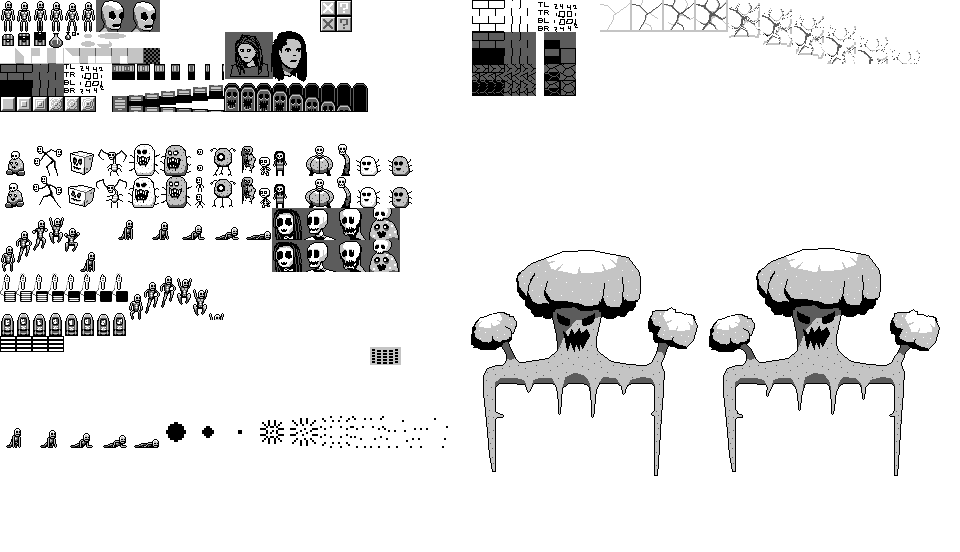
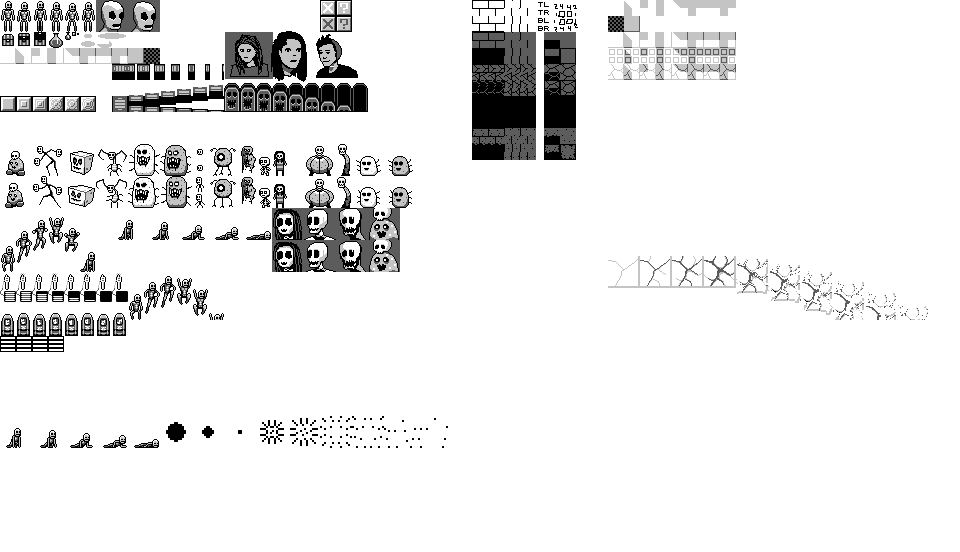
added alternate art for floor/wall tiles

diff --git a/src/game/spriteref.py b/src/game/spriteref.py
@@ -252,6 +252,23 @@ def split_text(text, add_to=None):
        6    5    4
 """
 walls = [None] * 256
+walls_black = [None] * 256
+walls_cracked = [None] * 256
+
+WALL_NORMAL_ID = 0
+WALL_BLACK_ID = 1
+WALL_CRACKED_ID = 2
+
+_wall_lookup = [walls, walls_black, walls_cracked]
+_root_pos = (472, 32)
+_wall_types = [(walls, [_root_pos[0], _root_pos[1], 64, 32]),
+               (walls_cracked, [_root_pos[0], _root_pos[1] + 32, 64, 32]),
+               (walls_black, [_root_pos[0], _root_pos[1] + 64, 64, 32])]
+
+
+def get_wall(encoding, wall_type_id=WALL_NORMAL_ID):
+    return _wall_lookup[wall_type_id][encoding]
+
 
 """Lookup table for floor sprites:
     * -- * -- *
@@ -260,13 +277,23 @@ walls = [None] * 256
     |  1 |  x |
     * -- * -- * 
 """
-floors = [make(i*16, 48, 16, 16) for i in range(0, 8)]
-floor_totally_dark = make(128, 48, 16, 16)
-floor_hidden = make(144, 48, 16, 16)
+floor_hidden = make(608, 16, 16, 16)
+floor_totally_dark = make(624, 16, 16, 16)
+floors = [make(608 + i*16, 32, 16, 16) for i in range(0, 8)]
+floors_alt = [make(608 + i*16, 48, 16, 16) for i in range(0, 8)]
+floors_cracked = [make(608 + i*16, 64, 16, 16) for i in range(0, 8)]
+
+FLOOR_NORMAL_ID = 0
+FLOOR_QUAD_ID = 1
+FLOOR_CRACKED_ID = 2
+_floor_lookup = [floors, floors_alt, floors_cracked]
 
 
-def _get_wall_corner_loc(spot, bools):
-    orig_walls = [0, 64, 64, 32]  # x, y, w, h
+def get_floor(encoding, floor_type_id=FLOOR_NORMAL_ID):
+    return _floor_lookup[floor_type_id][encoding]
+
+
+def _get_wall_corner_loc(spot, bools, wall_pieces):
     if spot == "TL":
         y = 0
         x = 1*bools[7] + 2*bools[0] + 4*bools[1]
@@ -280,7 +307,7 @@ def _get_wall_corner_loc(spot, bools):
         y = 3
         x = 1*bools[3] + 2*bools[4] + 4*bools[5]
         
-    return (orig_walls[0] + x*8, orig_walls[1] + y*8, 8, 8)
+    return (wall_pieces[0] + x*8, wall_pieces[1] + y*8, 8, 8)
 
 
 def _draw_ellipse(sheet, center, width, height, opacity):
@@ -396,8 +423,6 @@ def build_spritesheet(raw_image, raw_cine_img, raw_ui_img, raw_tree_img, raw_bos
         |             *-----------------*
         |             | bosses.png      |
         *-------------*-----------------*
-
-
     """
     global walls
     right_imgs = [raw_cine_img, raw_ui_img, raw_tree_img, raw_boss_img]
@@ -428,36 +453,41 @@ def build_spritesheet(raw_image, raw_cine_img, raw_ui_img, raw_tree_img, raw_bos
     build_boss_sheet((_x, _y), raw_boss_img, sheet)
     _y += raw_boss_img.get_height()
 
-    print("building approx 256 wall sprites...")
-
-    dupe_preventer = {}
-    draw_x = 0
     draw_y = raw_image.get_height()
-    
-    for i in range(0, 256):
-        bools = [int(x) for x in reversed(list('{0:0b}'.format(i)))]
-        bools= bools + [0]*(8 - len(bools))
-        
-        tl = _get_wall_corner_loc("TL", bools)
-        tr = _get_wall_corner_loc("TR", bools)
-        bl = _get_wall_corner_loc("BL", bools)
-        br = _get_wall_corner_loc("BR", bools)
-        key = (tl, tr, bl, br)
-        if key in dupe_preventer:
-            walls[i] = dupe_preventer[key]
-        else:
-            sheet.blit(raw_image, (draw_x, draw_y), tl)
-            sheet.blit(raw_image, (draw_x + 8, draw_y), tr)
-            sheet.blit(raw_image, (draw_x, draw_y + 8), bl)
-            sheet.blit(raw_image, (draw_x + 8, draw_y + 8), br)
-            model = make(draw_x, draw_y, 16, 16)
-            walls[i] = model
-            dupe_preventer[key] = model
-            
-            draw_x += 16
-            if draw_x > left_size[0] - 16:
-                draw_x = 0
-                draw_y += 16
+
+    print("building approx {} wall sprites...".format(256 * len(_wall_types)))
+
+    for wall_type in _wall_types:
+        wall_array = wall_type[0]
+        pieces_location = wall_type[1]
+        dupe_preventer = {}
+
+        draw_x = 0
+
+        for i in range(0, 256):
+            bools = [int(x) for x in reversed(list('{0:0b}'.format(i)))]
+            bools= bools + [0]*(8 - len(bools))
+
+            tl = _get_wall_corner_loc("TL", bools, pieces_location)
+            tr = _get_wall_corner_loc("TR", bools, pieces_location)
+            bl = _get_wall_corner_loc("BL", bools, pieces_location)
+            br = _get_wall_corner_loc("BR", bools, pieces_location)
+            key = (tl, tr, bl, br)
+            if key in dupe_preventer:
+                wall_array[i] = dupe_preventer[key]
+            else:
+                sheet.blit(raw_image, (draw_x, draw_y), tl)
+                sheet.blit(raw_image, (draw_x + 8, draw_y), tr)
+                sheet.blit(raw_image, (draw_x, draw_y + 8), bl)
+                sheet.blit(raw_image, (draw_x + 8, draw_y + 8), br)
+                model = make(draw_x, draw_y, 16, 16)
+                wall_array[i] = model
+                dupe_preventer[key] = model
+
+                draw_x += 16
+                if draw_x > left_size[0] - 16:
+                    draw_x = 0
+                    draw_y += 16
 
     draw_x = 0
     draw_y += 16

diff --git a/src/world/worldstate.py b/src/world/worldstate.py
@@ -41,6 +41,12 @@ class World:
         self._ents_to_add = []
         self._onscreen_entities = set()
 
+        self._wall_type = spriteref.WALL_NORMAL_ID
+        self._floor_type = spriteref.FLOOR_NORMAL_ID
+
+        self._wall_art_overrides = {}  # x,y -> wall_type_id
+        self._floor_art_overrides = {}  # x,y -> floor_type_id
+
     def cellsize(self):
         return CELLSIZE
         
@@ -87,8 +93,38 @@ class World:
         
         res.sort(key=lambda e: Utils.dist(center, e.center()))
         
-        return res       
-        
+        return res
+
+    def set_wall_type(self, wall_id, xy=None):
+        if xy is None:
+            self._wall_type = wall_id
+        elif wall_id is None:
+            if xy in self._wall_art_overrides:
+                del self._wall_art_overrides[xy]
+        else:
+            self._wall_art_overrides[xy] = wall_id
+
+    def wall_type_at(self, grid_xy):
+        if grid_xy in self._wall_art_overrides:
+            return self._wall_art_overrides[grid_xy]
+        else:
+            return self._wall_type
+
+    def set_floor_type(self, floor_id, xy=None):
+        if xy is None:
+            self._floor_type = floor_id
+        elif floor_id is None:
+            if xy in self._floor_art_overrides:
+                del self._floor_art_overrides[xy]
+        else:
+            self._floor_art_overrides[xy] = floor_id
+
+    def floor_type_at(self, grid_xy):
+        if grid_xy in self._floor_art_overrides:
+            return self._floor_art_overrides[grid_xy]
+        else:
+            return self._floor_type
+
     def set_geo(self, grid_x, grid_y, geo_id):
         if self.is_valid(grid_x, grid_y):
             self._level_geo[grid_x][grid_y] = geo_id
@@ -184,7 +220,7 @@ class World:
             n_info = self.get_neighbor_info(grid_x, grid_y, mapping=mapping)
             mults = [1, 2, 4, 8, 16, 32, 64, 128]
             wall_img_id = sum(n_info[i] * mults[i] for i in range(0, 8))
-            return spriteref.walls[wall_img_id]
+            return spriteref.get_wall(wall_img_id, wall_type_id=self.wall_type_at((grid_x, grid_y)))
 
         elif geo == World.DOOR:
             return spriteref.floor_totally_dark
@@ -197,7 +233,7 @@ class World:
                 n_info = self.get_neighbor_info(grid_x, grid_y, mapping=mapping)
 
                 floor_img_id = 2 * n_info[0] + 4 * n_info[1] + 1 * n_info[7]
-                return spriteref.floors[floor_img_id]
+                return spriteref.get_floor(floor_img_id, floor_type_id=self.floor_type_at((grid_x, grid_y)))
 
         return None
 

diff --git a/src/worldgen/zones.py b/src/worldgen/zones.py
@@ -1,3 +1,5 @@
+import random
+
 from src.worldgen.worldgen import WorldFactory, WorldBlueprint, RoomFactory, BuilderUtils
 import src.world.entities as entities
 import src.game.spriteref as spriteref
@@ -121,6 +123,11 @@ class CaveHorrorZone(Zone):
         bp.player_spawn = (3, 22)
 
         w = bp.build_world()
+        w.set_wall_type(spriteref.WALL_NORMAL_ID)
+
+        for floor_xy in boss_room.all_floors():
+            if random.random() < 0.15:
+                w.set_floor_type(spriteref.FLOOR_CRACKED_ID, xy=floor_xy)
 
         tree_sprite = entities.AnimationEntity(0, 0, spriteref.Bosses.cave_horror_idle, 60, spriteref.ENTITY_LAYER, w=64*5, h=8)
         tree_sprite.set_finish_behavior(entities.AnimationEntity.LOOP_ON_FINISH)
